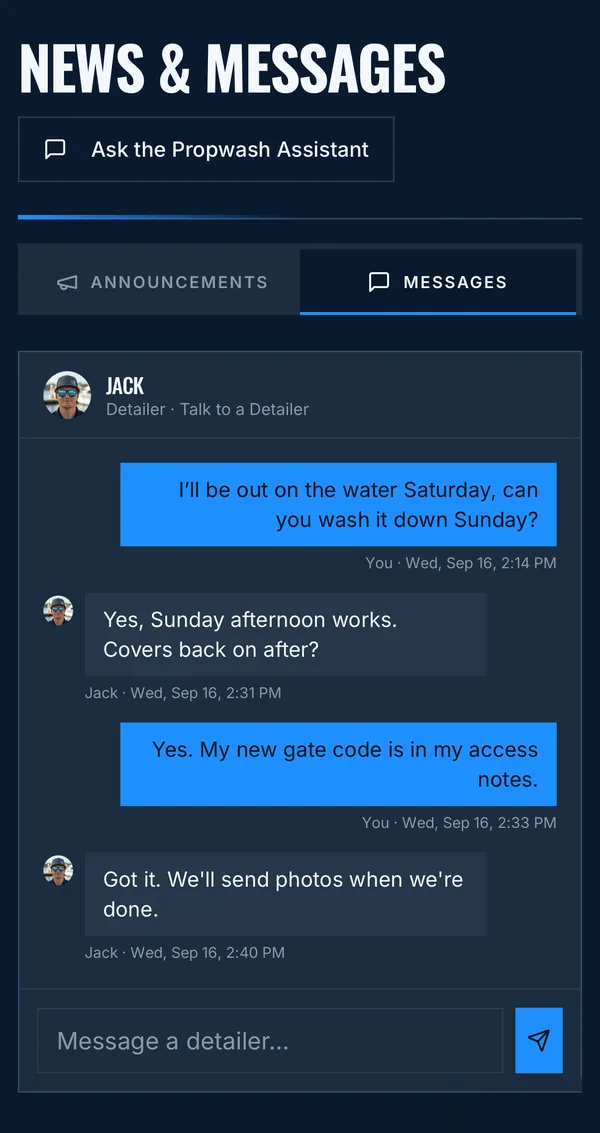
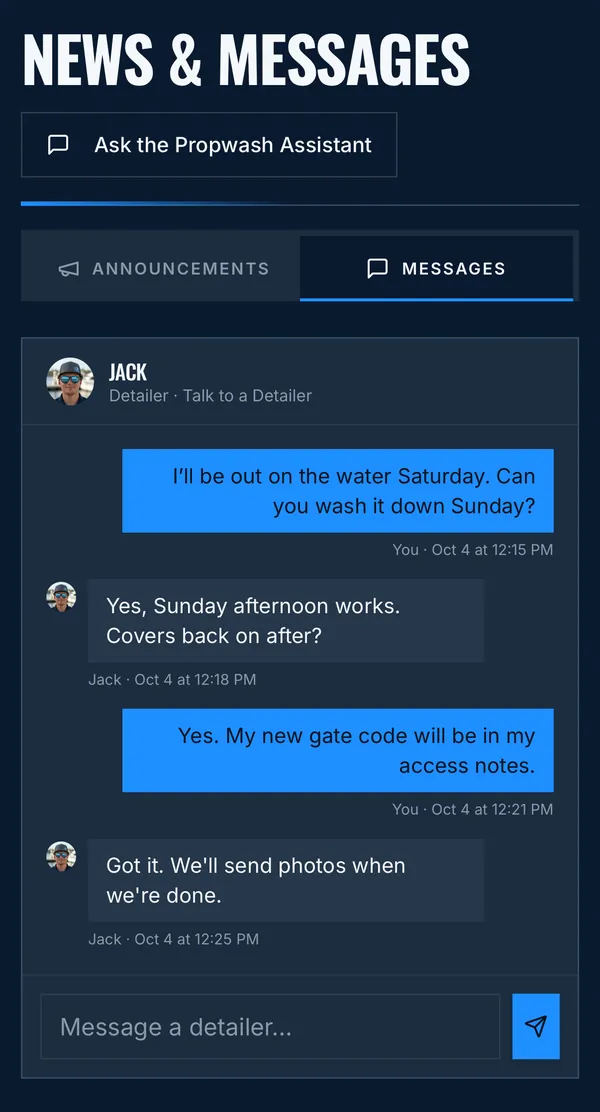
Replace the portal demo's Talk to a Detailer thread
The Messages screen is the new reshoot of the Talk to a Detailer thread
with Jack (October 4), stitched without the browser bar, portal header or
tab bar. The Announcements screen is unchanged. The image description and
Announcements tab hotspot follow the new screen.

Claude-Session: https://claude.ai/code/session_015nAT26gc3SBkgKPWVmN4Fy

diff --git a/assets/portal-demo/demo.js b/assets/portal-demo/demo.js
@@ -53,9 +53,9 @@ const SCREENS={
    hot:[{x:57,y:786,w:543,h:117,label:'Schedule Care tab',act:()=>show('schedule-care')}]},
  'payments':{tab:'act',h:'Invoices & payments',p:'View and pay invoices right in the portal, with every receipt kept on file.',hgt:2249,
    alt:"Invoice screen for invoice PWM-1234, marked paid: the Propwash Marine Detailing header, bill to Jack at jack@propwashmarine.com, vessel Salty Dog, a Captain's Wash line item with the rate, subtotal and grand total shown as Custom, paid Oct 2, 2026, and a Download PDF button."},
- 'messages':{tab:'act',h:'Talk to your detailer.',p:'Message us directly and catch our latest news.',hgt:1133,scrollTo:690,
-   alt:"News and Messages screen on the Messages tab: a conversation with Jack, your detailer, on Wednesday, September 16 between 2:14 and 2:40 PM about a Sunday washdown, covers and a new gate code, with a message field below.",
-   hot:[{x:36,y:490,w:567,h:142,label:'Announcements tab',act:()=>show('announcements')}]},
+ 'messages':{tab:'act',h:'Talk to your detailer.',p:'Message us directly and catch our latest news.',hgt:1112,scrollTo:650,
+   alt:"News and Messages screen on the Messages tab: a Talk to a Detailer conversation with Jack, your detailer, on October 4 between 12:15 and 12:25 PM. The owner asks for a Sunday washdown after a Saturday on the water, Jack says Sunday afternoon works and asks about the covers, the owner says the new gate code will be in the access notes, and Jack says they will send photos when they are done. A message field and Send button are below.",
+   hot:[{x:36,y:470,w:567,h:128,label:'Announcements tab',act:()=>show('announcements')}]},
  'announcements':{tab:'act',h:'News from the crew.',p:'Updates on the weather, the season and what is new in your portal.',hgt:1182,
    alt:"News and Messages screen on the Announcements tab: On the Water is live (Oct 2, 2026), Heading back down this season? (Sep 22, 2026) and After the storm (Aug 18, 2026).",
    hot:[{x:603,y:490,w:555,h:142,label:'Messages tab',act:()=>show('messages')}]},

diff --git a/index.html b/index.html
@@ -508,8 +508,8 @@ body{margin:0;background:#0A1A2F;overflow-x:hidden}
  #pw-redesign-v3 .pw-mobileactions a:last-child{border-right:0;background:#2F91E8;color:#07192D}
 }
 </style>
-<link rel="stylesheet" href="/assets/portal-demo/demo.css?v=054fb9a947">
-<script src="/assets/portal-demo/demo.js?v=054fb9a947" defer></script>
+<link rel="stylesheet" href="/assets/portal-demo/demo.css?v=1b6473fa03">
+<script src="/assets/portal-demo/demo.js?v=1b6473fa03" defer></script>
 <script type="application/ld+json">{"@context":"https://schema.org","@type":"LocalBusiness","@id":"https://propwashmarine.com/#business","name":"Propwash Marine Detailing","description":"Mobile and dockside boat detailing across South Florida.","url":"https://propwashmarine.com/","telephone":"+1-561-291-8554","image":"https://propwashmarine.com/assets/v4/hero-poster.webp","areaServed":["Stuart","Boca Raton","Fort Lauderdale"],"sameAs":["https://instagram.com/propwashmarine"]}</script>
 <script type="application/ld+json">{"@context":"https://schema.org","@type":"FAQPage","mainEntity":[{"@type":"Question","name":"Do I need to be there?","acceptedAnswer":{"@type":"Answer","text":"No. Give us access and we handle it. Photos land in your Owner Portal after the visit."}},{"@type":"Question","name":"How long does a Full Detail take?","acceptedAnswer":{"@type":"Answer","text":"Timing depends on length, condition and the work needed. We confirm the schedule when we quote the boat."}},{"@type":"Question","name":"Wax or ceramic?","acceptedAnswer":{"@type":"Answer","text":"The right choice depends on the boat's finish, use and maintenance plan. Surface preparation comes first."}},{"@type":"Question","name":"How often should we schedule a wash?","acceptedAnswer":{"@type":"Answer","text":"We match the cadence to how the boat is stored and used. Silver offers weekly, bi-weekly or monthly washes. Gold and Platinum offer a custom cadence."}}]}</script>
 </head>
